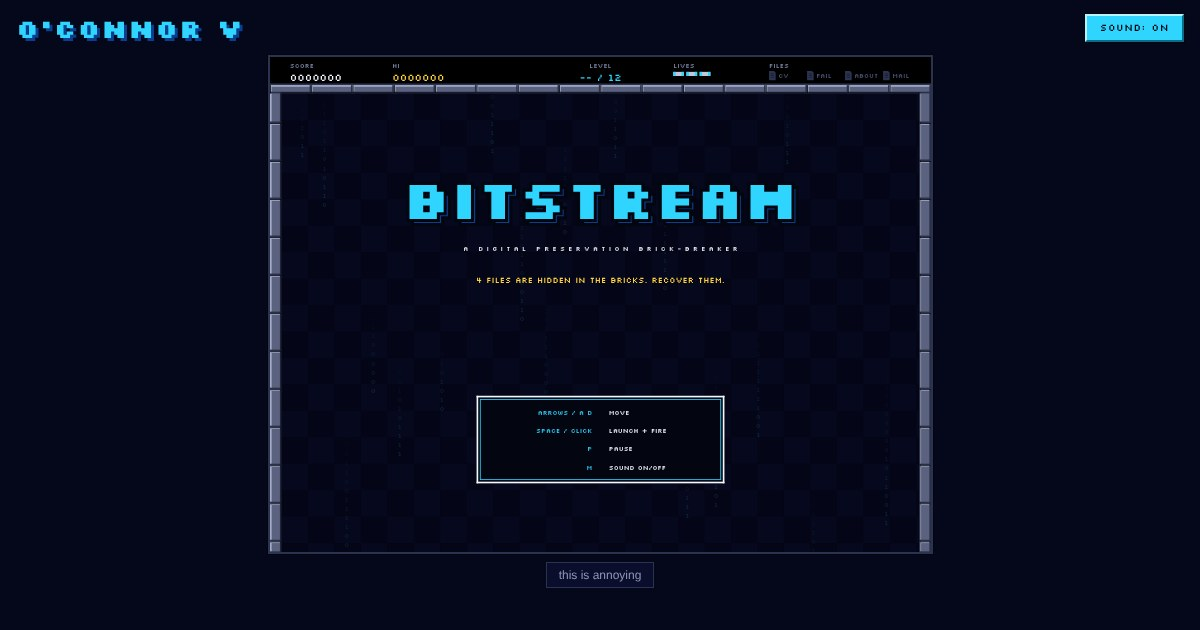
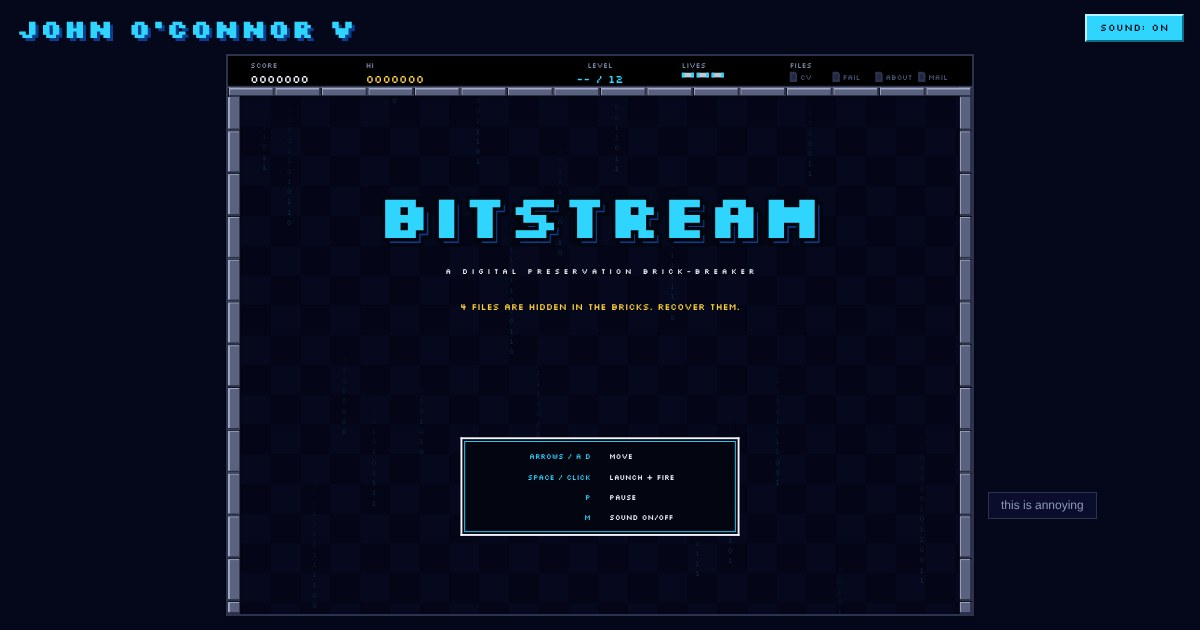
Enlarge the game by moving "this is annoying" beside it; header says John O'Connor V
The button and its links now sit in a column at the game's bottom-right
corner (an empty column on the left keeps the game centred), so the game
can use the height the bottom bar took. Same 4:3 shape: on a 1366x768
laptop it grows from 845x633 to 928x696. The page picks whichever layout
gives the bigger game, so narrow screens keep the button underneath.

The header and tab titles now read "John O'Connor V" on every page.
Browser checks confirm the button sits beside (or below) the game and
never covers it.

Claude-Session: https://claude.ai/code/session_01Bd3PE4hT8HQqiVT8L77KMB

diff --git a/css/site.css b/css/site.css
@@ -15,6 +15,9 @@
   --dim: #8b96b8;
   --pixel: 'Silkscreen', 'Courier New', monospace;
   --ui: Verdana, Tahoma, Geneva, sans-serif;
+  --side-w: 170px;   /* the column beside the game that holds "this is annoying" */
+  --side-gap: 16px;
+  --panel-h: 64px;   /* height of that panel when it sits under the game instead */
 }
 
 * { box-sizing: border-box; }
@@ -32,7 +35,9 @@ a:hover { color: #fff; }
   color: var(--cyan);
   text-shadow: 3px 3px 0 var(--shadow);
   text-decoration: none;
+  text-transform: uppercase;
 }
+.wordmark span { display: inline-block; white-space: nowrap; }
 a.wordmark:hover { color: #7fe4ff; }
 
 /* ---------------------------------------------------------------- buttons: flat, square, bevelled */
@@ -49,6 +54,7 @@ a.wordmark:hover { color: #7fe4ff; }
   background: var(--cyan);
   box-shadow: 0 0 0 1px var(--ink);
   text-decoration: none;
+  white-space: nowrap;
   cursor: pointer;
   user-select: none;
 }
@@ -87,7 +93,15 @@ body.home {
   display: flex;
   align-items: center;
   justify-content: center;
-  padding: 0 16px;
+  padding: 0 16px 16px;
+}
+/* Game in the middle, "this is annoying" in a column on its right, an empty column on its left
+   to keep the game centred. js/main.js sizes the game and picks .layout-side or .layout-bottom. */
+.play {
+  display: grid;
+  grid-template-columns: var(--side-w) auto var(--side-w);
+  column-gap: var(--side-gap);
+  align-items: end;
 }
 #frame { position: relative; box-shadow: 0 0 0 2px var(--line), 0 0 0 3px var(--ink); }
 #game {
@@ -99,14 +113,11 @@ body.home {
   user-select: none;
 }
 
-.bottombar {
-  flex: none;
-  height: 78px;
+.side {
   display: flex;
   flex-direction: column;
-  align-items: center;
-  gap: 8px;
-  padding: 10px 16px 0;
+  align-items: flex-start;
+  gap: 10px;
 }
 .annoying {
   appearance: none;
@@ -117,15 +128,16 @@ body.home {
   color: var(--dim);
   background: var(--panel);
   cursor: pointer;
+  white-space: nowrap;
 }
 .annoying:hover { color: var(--text); border-color: var(--cyan); }
 .annoying[aria-expanded='true'] { color: var(--gold); border-color: var(--gold); }
 .links {
   visibility: hidden;
   display: flex;
-  flex-wrap: nowrap;
-  justify-content: center;
-  gap: 18px;
+  flex-direction: column;
+  align-items: flex-start;
+  gap: 6px;
   font: 12px/1.4 var(--ui);
   white-space: nowrap;
 }
@@ -133,29 +145,35 @@ body.home {
 .links a { text-decoration: none; }
 .links a:hover { text-decoration: underline; }
 
+/* Narrow screens: the panel goes under the game, links in a row. */
+body.layout-bottom .play { grid-template-columns: auto; row-gap: var(--side-gap); justify-items: center; }
+body.layout-bottom .play-spacer { display: none; }
+body.layout-bottom .side { align-items: center; height: var(--panel-h); }
+body.layout-bottom .links { flex-direction: row; gap: 18px; }
+
 @media (max-width: 560px) {
+  :root { --side-gap: 10px; }
   .topbar { height: 48px; padding: 0 10px; }
-  .wordmark { font-size: 18px; }
-  #stage { padding: 0 8px; }
-  .bottombar { height: 70px; padding-top: 8px; }
-  .links { gap: 12px; font-size: 11px; }
+  .wordmark { font-size: 14px; line-height: 1.15; white-space: normal; }
+  #stage { padding: 0 8px 8px; }
+  body.layout-bottom .links { gap: 12px; font-size: 11px; }
 }
 @media (max-height: 520px) {
   .topbar { height: 40px; }
   .wordmark { font-size: 16px; }
-  .bottombar { height: 58px; padding-top: 6px; gap: 4px; }
   .annoying { padding: 3px 12px; font-size: 11px; }
 }
 
-/* Phones held sideways: put the header and footer beside the game instead of above and below it. */
+/* Phones held sideways: header in a column on the left, game, then the panel on the right. */
 @media (orientation: landscape) and (max-height: 500px) {
-  body.home { display: grid; grid-template-columns: 136px minmax(0, 1fr) 136px; grid-template-rows: minmax(0, 1fr); }
+  :root { --side-w: 118px; --side-gap: 10px; }
+  body.home { display: grid; grid-template-columns: 136px minmax(0, 1fr); grid-template-rows: minmax(0, 1fr); }
   .topbar { height: auto; flex-direction: column; align-items: flex-start; justify-content: flex-start; gap: 12px; padding: 12px 8px; }
-  .wordmark { font-size: 15px; }
+  .wordmark { font-size: 13px; line-height: 1.25; white-space: normal; }
   .top-buttons { flex-direction: column; align-items: flex-start; }
-  #stage { padding: 8px 0; }
-  .bottombar { height: auto; justify-content: center; gap: 10px; padding: 12px 8px; }
-  .links { flex-direction: column; align-items: center; gap: 6px; font-size: 12px; }
+  #stage { padding: 0 8px 0 0; }
+  .play { grid-template-columns: auto var(--side-w); align-items: center; }
+  .play-spacer { display: none; }
 }
 
 .noscript { position: fixed; inset: auto 0 0 0; margin: 0; padding: 10px; text-align: center; background: #000; }
@@ -256,7 +274,7 @@ body.home {
   .page { max-width: none; padding: 0; }
   .page-head .btn, .edit-note, .page-foot { display: none !important; }
   .page-head { border-color: #000; }
-  .wordmark, .page h1 { color: #000; text-shadow: none; font-family: Georgia, serif; }
+  .wordmark, .page h1 { color: #000; text-shadow: none; font-family: Georgia, serif; text-transform: none; }
   .panel { border: 0; box-shadow: none; background: none; padding: 0; }
   .page h2 { color: #000; border-color: #000; font-family: Georgia, serif; }
   .entry .when, .page-head .file-name { color: #000; font-family: Georgia, serif; }

diff --git a/index.html b/index.html
@@ -3,10 +3,10 @@
 <head>
   <meta charset="utf-8">
   <meta name="viewport" content="width=device-width, initial-scale=1, viewport-fit=cover">
-  <title>O'Connor V</title>
+  <title>John O'Connor V</title>
   <meta name="description" content="BITSTREAM: a digital preservation brick-breaker. Four files are hidden in the bricks.">
   <meta property="og:type" content="website">
-  <meta property="og:title" content="O'Connor V &mdash; BITSTREAM">
+  <meta property="og:title" content="John O'Connor V &mdash; BITSTREAM">
   <meta property="og:description" content="A digital preservation brick-breaker. Four files are hidden in the bricks.">
   <meta property="og:image" content="https://oconnorv.com/img/og-image.jpg">
   <meta name="twitter:card" content="summary_large_image">
@@ -18,7 +18,7 @@
 </head>
 <body class="home">
   <header class="topbar">
-    <div class="wordmark">O'CONNOR V</div>
+    <div class="wordmark"><span>John</span> <span>O'Connor V</span></div>
     <div class="top-buttons">
       <button id="pause-btn" class="btn grey" type="button" aria-pressed="false">PAUSE</button>
       <button id="sound" class="btn" type="button" aria-pressed="true">SOUND: ON</button>
@@ -26,6 +26,8 @@
   </header>
 
   <main id="stage">
+    <div class="play">
+    <div class="play-spacer" aria-hidden="true"></div>
     <div id="frame">
       <canvas id="game" role="img" aria-label="BITSTREAM, a brick-breaker game. Arrow keys or A and D move the paddle, Space launches the ball and fires lasers, P pauses."></canvas>
       <div id="file-dialog" class="dialog" role="dialog" aria-modal="true" aria-labelledby="dlg-title" hidden>
@@ -46,17 +48,17 @@
         </div>
       </div>
     </div>
+    <aside class="side">
+      <button id="annoying" class="annoying" type="button" aria-expanded="false" aria-controls="links">this is annoying</button>
+      <nav id="links" class="links" aria-label="Pages">
+        <a href="cv.html" target="_blank" rel="noopener" data-page="cv">CV</a>
+        <a href="failures.html" target="_blank" rel="noopener" data-page="failures">CV of Failures</a>
+        <a href="about.html" target="_blank" rel="noopener" data-page="about">About Me</a>
+        <a href="contact.html" target="_blank" rel="noopener" data-page="contact">Contact Me</a>
+      </nav>
+    </aside>
+    </div>
   </main>
-
-  <footer class="bottombar">
-    <button id="annoying" class="annoying" type="button" aria-expanded="false" aria-controls="links">this is annoying</button>
-    <nav id="links" class="links" aria-label="Pages">
-      <a href="cv.html" target="_blank" rel="noopener" data-page="cv">CV</a>
-      <a href="failures.html" target="_blank" rel="noopener" data-page="failures">CV of Failures</a>
-      <a href="about.html" target="_blank" rel="noopener" data-page="about">About Me</a>
-      <a href="contact.html" target="_blank" rel="noopener" data-page="contact">Contact Me</a>
-    </nav>
-  </footer>
 
   <noscript>
     <p class="noscript">This page is a game and needs JavaScript. Here are the pages:

diff --git a/js/main.js b/js/main.js
@@ -50,9 +50,30 @@ const game = new Game({
 
 // ------------------------------------------------------------------ sizing: always fits, never scrolls
 
+// The "this is annoying" button sits beside the game (with a matching empty column on the
+// left so the game stays centred) or, when that would make the game smaller, underneath it.
+// Phones held sideways always use the side column; their header moves to the left instead.
+const compactQuery = matchMedia('(orientation: landscape) and (max-height: 500px)');
+
 function layout() {
-  const r = stage.getBoundingClientRect();
-  const w = Math.floor(Math.min(r.width, (r.height * 4) / 3));
+  const cs = getComputedStyle(stage);
+  const availW = stage.clientWidth - parseFloat(cs.paddingLeft) - parseFloat(cs.paddingRight);
+  const availH = stage.clientHeight - parseFloat(cs.paddingTop) - parseFloat(cs.paddingBottom);
+  const vars = getComputedStyle(document.documentElement);
+  const sideW = parseFloat(vars.getPropertyValue('--side-w')) + parseFloat(vars.getPropertyValue('--side-gap'));
+  const panelH = parseFloat(vars.getPropertyValue('--panel-h')) + parseFloat(vars.getPropertyValue('--side-gap'));
+  const fit = (w, h) => Math.max(100, Math.floor(Math.min(w, (h * 4) / 3)));
+  let side = true;
+  let w;
+  if (compactQuery.matches) w = fit(availW - sideW, availH);
+  else {
+    const besideW = fit(availW - 2 * sideW, availH);
+    const belowW = fit(availW, availH - panelH);
+    side = besideW >= belowW;
+    w = Math.max(besideW, belowW);
+  }
+  document.body.classList.toggle('layout-side', side);
+  document.body.classList.toggle('layout-bottom', !side);
   const h = Math.floor((w * 3) / 4);
   frame.style.width = `${w}px`;
   frame.style.height = `${h}px`;
@@ -60,6 +81,7 @@ function layout() {
 }
 new ResizeObserver(layout).observe(stage);
 window.addEventListener('resize', layout);
+compactQuery.addEventListener?.('change', layout);
 layout();
 
 // Redraw cached text once the pixel font has loaded.

diff --git a/failures.html b/failures.html
@@ -3,7 +3,7 @@
 <head>
   <meta charset="utf-8">
   <meta name="viewport" content="width=device-width, initial-scale=1">
-  <title>CV of Failures &mdash; O'Connor V</title>
+  <title>CV of Failures &mdash; John O'Connor V</title>
   <meta name="description" content="The rejections, dead ends and things that didn't work.">
   <link rel="icon" href="img/favicon.svg" type="image/svg+xml">
   <link rel="stylesheet" href="css/site.css">
@@ -12,7 +12,7 @@
   <div class="page">
     <header class="page-head">
       <div>
-        <a class="wordmark" href="./" style="text-decoration:none">O'CONNOR V</a>
+        <a class="wordmark" href="./" style="text-decoration:none">John O'Connor V</a>
         <span class="file-name">RECOVERED FILE: FAILURES.TXT</span>
       </div>
       <button class="btn close-tab" type="button">CLOSE TAB</button>

diff --git a/contact.html b/contact.html
@@ -3,7 +3,7 @@
 <head>
   <meta charset="utf-8">
   <meta name="viewport" content="width=device-width, initial-scale=1">
-  <title>Contact &mdash; O'Connor V</title>
+  <title>Contact &mdash; John O'Connor V</title>
   <meta name="description" content="How to reach John O'Connor V.">
   <link rel="icon" href="img/favicon.svg" type="image/svg+xml">
   <link rel="stylesheet" href="css/site.css">
@@ -12,7 +12,7 @@
   <div class="page">
     <header class="page-head">
       <div>
-        <a class="wordmark" href="./" style="text-decoration:none">O'CONNOR V</a>
+        <a class="wordmark" href="./" style="text-decoration:none">John O'Connor V</a>
         <span class="file-name">RECOVERED FILE: CONTACT.VCF</span>
       </div>
       <button class="btn close-tab" type="button">CLOSE TAB</button>

diff --git a/about.html b/about.html
@@ -3,7 +3,7 @@
 <head>
   <meta charset="utf-8">
   <meta name="viewport" content="width=device-width, initial-scale=1">
-  <title>About Me &mdash; O'Connor V</title>
+  <title>About Me &mdash; John O'Connor V</title>
   <meta name="description" content="About John O'Connor V.">
   <link rel="icon" href="img/favicon.svg" type="image/svg+xml">
   <link rel="stylesheet" href="css/site.css">
@@ -12,7 +12,7 @@
   <div class="page">
     <header class="page-head">
       <div>
-        <a class="wordmark" href="./" style="text-decoration:none">O'CONNOR V</a>
+        <a class="wordmark" href="./" style="text-decoration:none">John O'Connor V</a>
         <span class="file-name">RECOVERED FILE: ABOUT_ME.HTML</span>
       </div>
       <button class="btn close-tab" type="button">CLOSE TAB</button>

diff --git a/cv.html b/cv.html
@@ -3,7 +3,7 @@
 <head>
   <meta charset="utf-8">
   <meta name="viewport" content="width=device-width, initial-scale=1">
-  <title>CV &mdash; O'Connor V</title>
+  <title>CV &mdash; John O'Connor V</title>
   <meta name="description" content="Curriculum vitae.">
   <link rel="icon" href="img/favicon.svg" type="image/svg+xml">
   <link rel="stylesheet" href="css/site.css">
@@ -12,7 +12,7 @@
   <div class="page">
     <header class="page-head">
       <div>
-        <a class="wordmark" href="./" style="text-decoration:none">O'CONNOR V</a>
+        <a class="wordmark" href="./" style="text-decoration:none">John O'Connor V</a>
         <span class="file-name">RECOVERED FILE: CV.PDF</span>
       </div>
       <button class="btn close-tab" type="button">CLOSE TAB</button>

diff --git a/404.html b/404.html
@@ -3,13 +3,13 @@
 <head>
   <meta charset="utf-8">
   <meta name="viewport" content="width=device-width, initial-scale=1">
-  <title>404: Link rot &mdash; O'Connor V</title>
+  <title>404: Link rot &mdash; John O'Connor V</title>
   <link rel="icon" href="/img/favicon.svg" type="image/svg+xml">
   <link rel="stylesheet" href="/css/site.css">
 </head>
 <body>
   <div class="page" style="text-align:center; padding-top: 12vh">
-    <a class="wordmark" href="/" style="text-decoration:none">O'CONNOR V</a>
+    <a class="wordmark" href="/" style="text-decoration:none">John O'Connor V</a>
     <div class="panel" style="margin-top: 24px">
       <h1>404</h1>
       <p class="lede" style="font: 12px/1.6 var(--pixel); letter-spacing: 1px; color: #ff9aa6">LINK ROT DETECTED</p>
